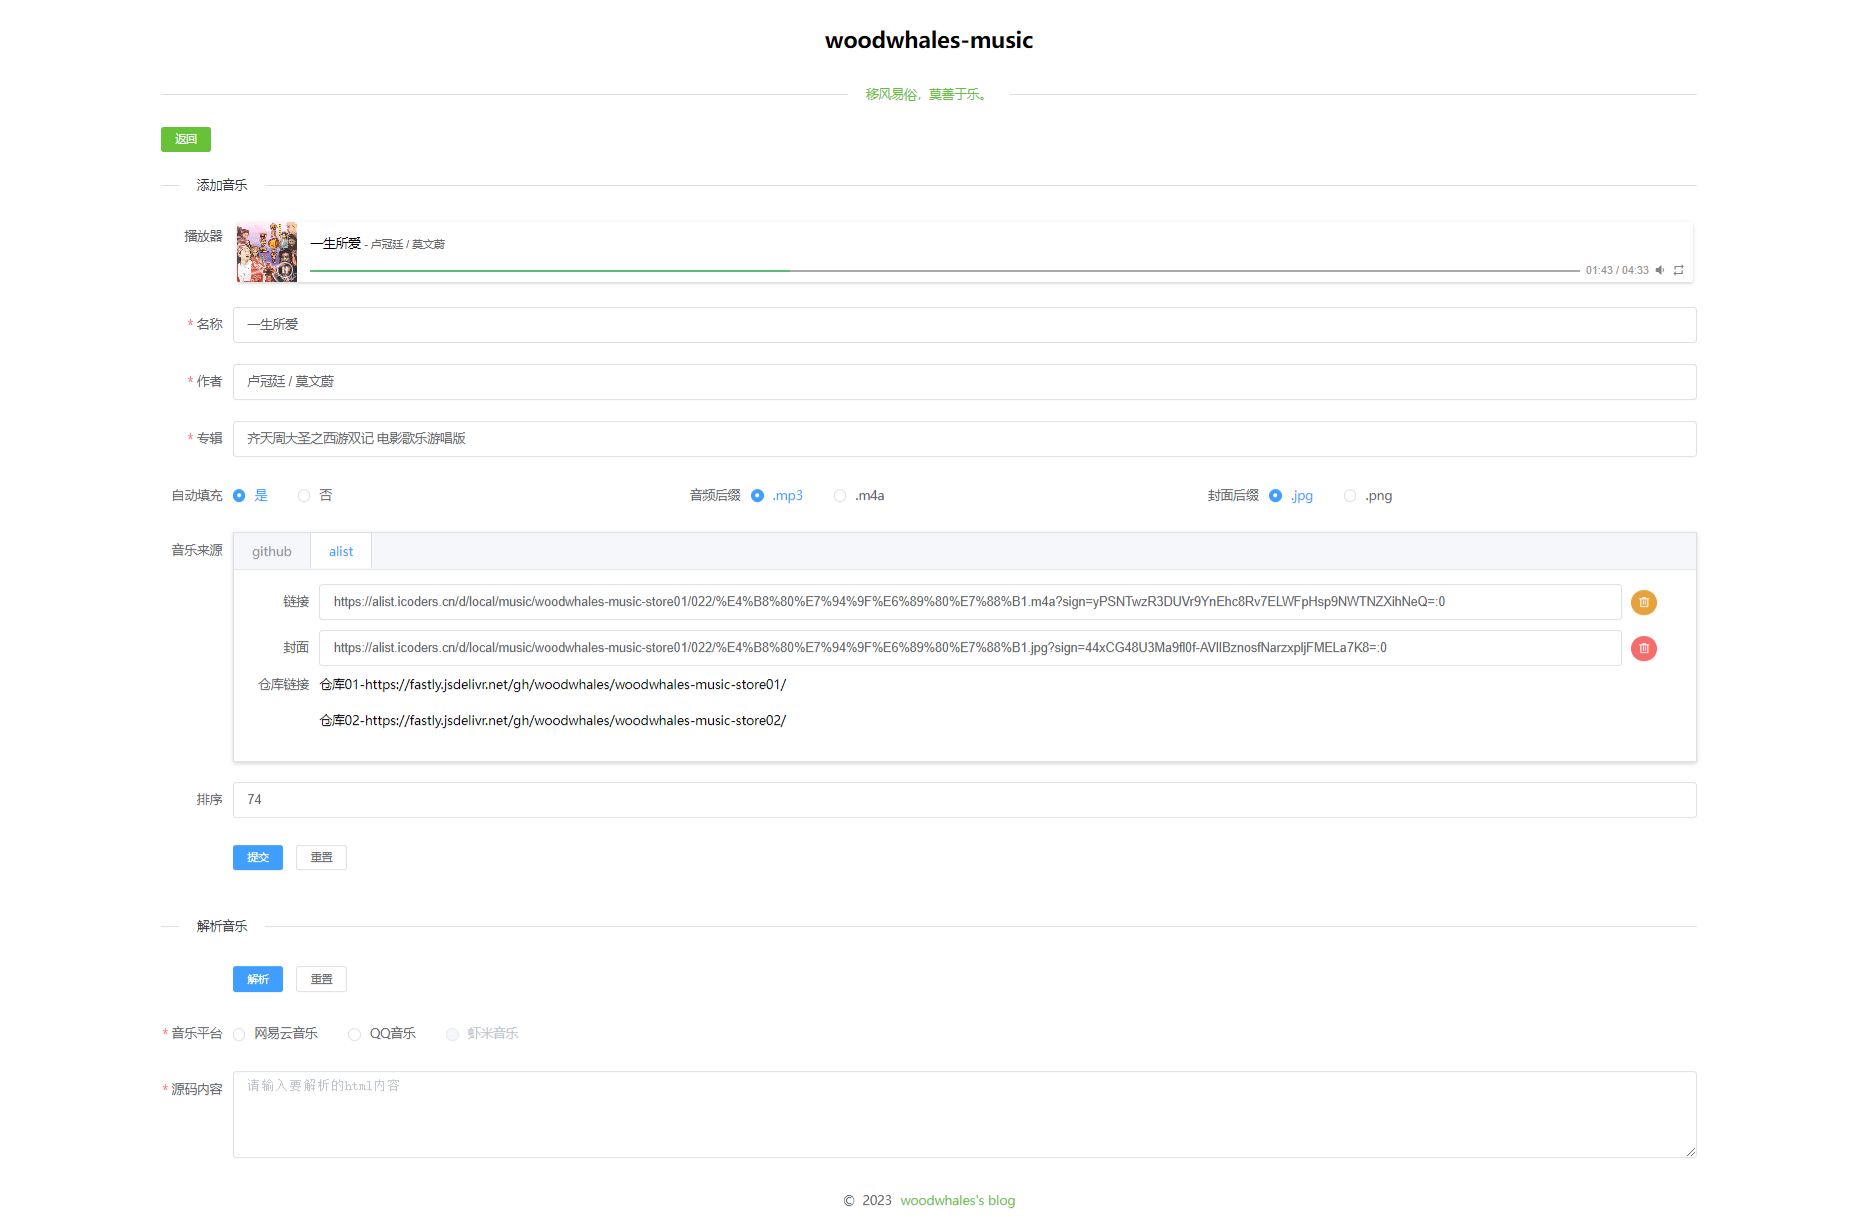
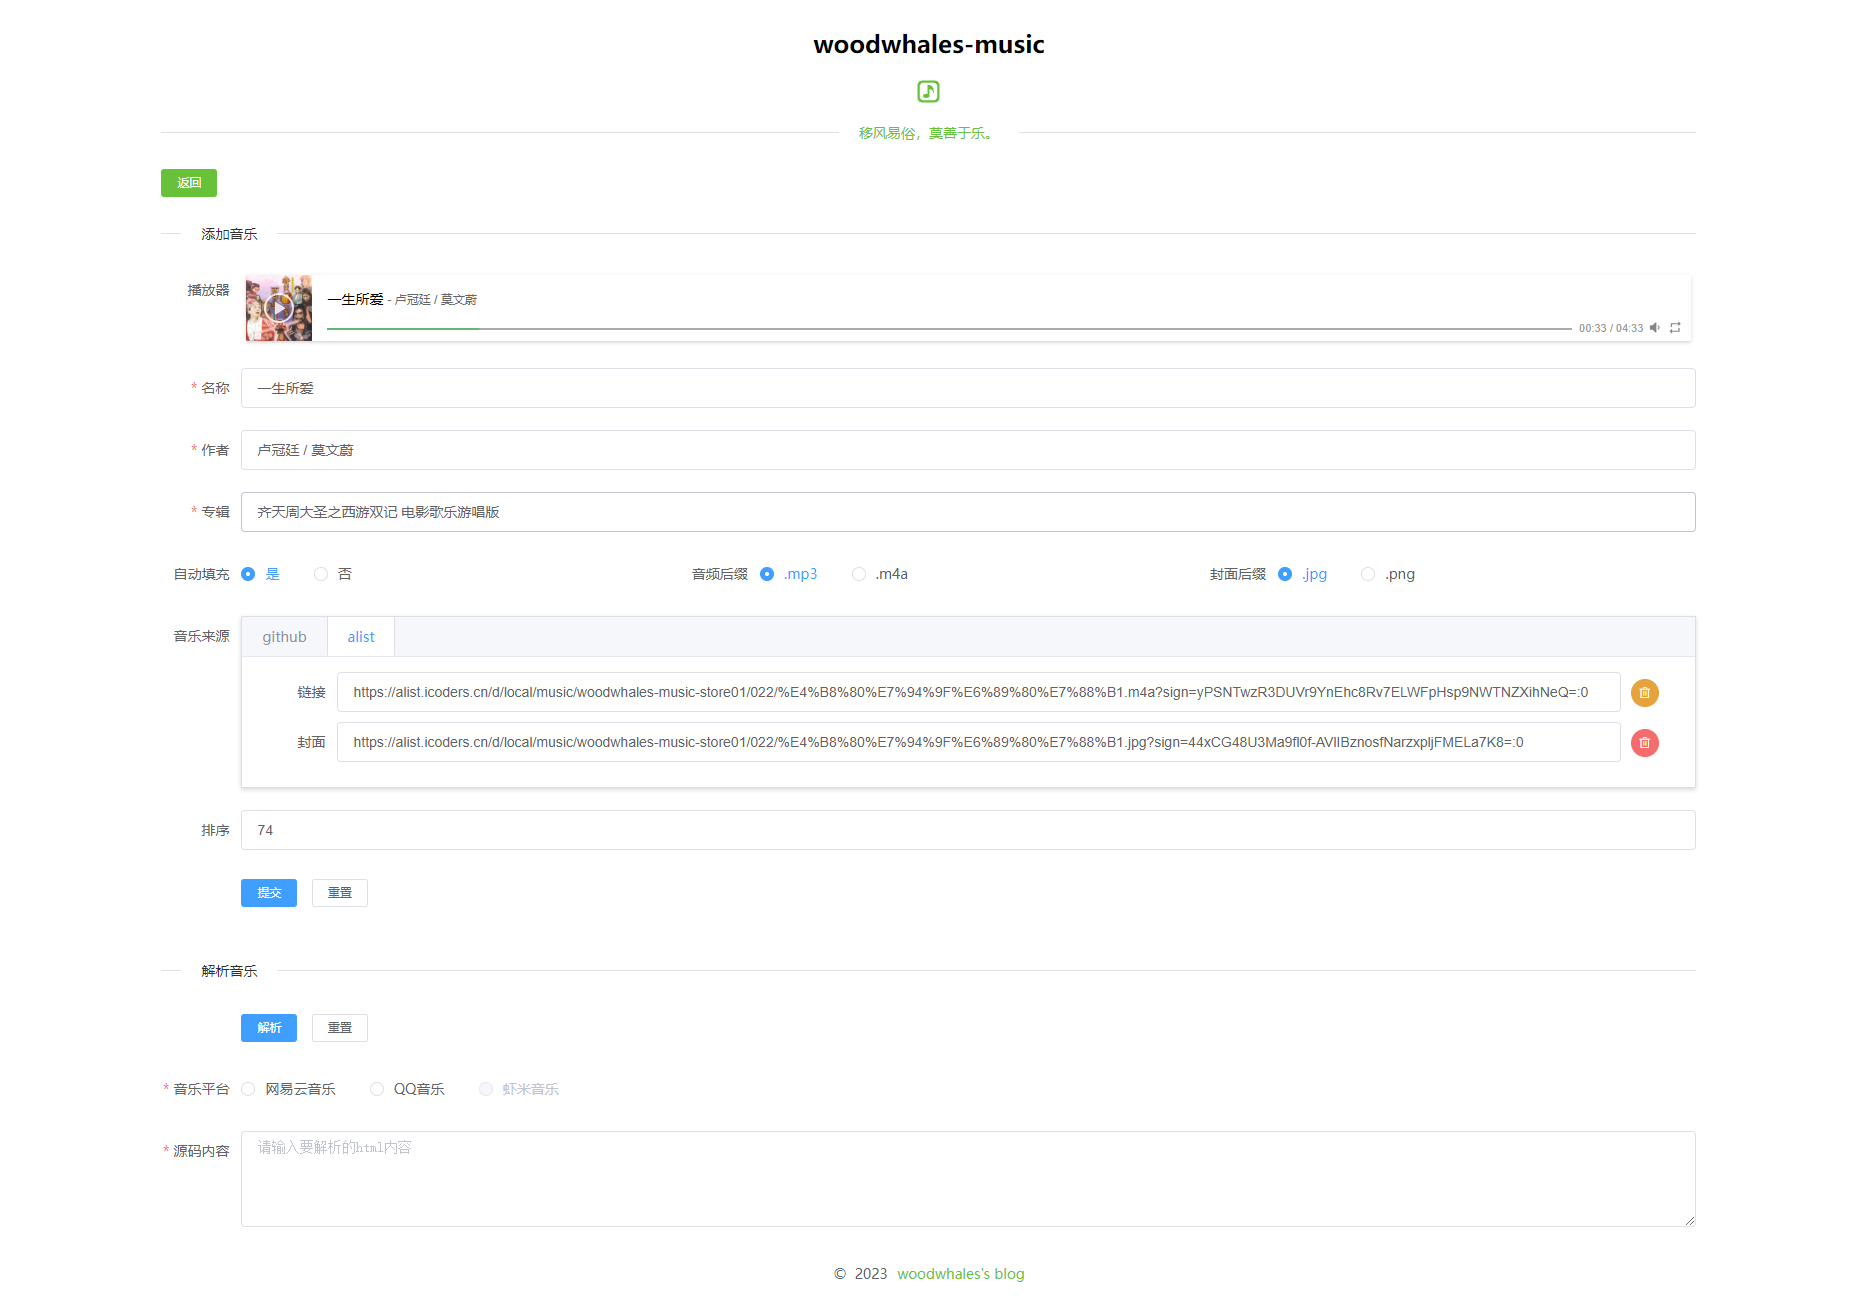
update readme and update version to 3.6.2

diff --git a/src/main/resources/templates/admin2/index.html b/src/main/resources/templates/admin2/index.html
@@ -17,15 +17,7 @@
         <el-row>
             <el-col :span="2">&nbsp;</el-col>
             <el-col :span="20">
-                <el-row style="text-align: center;">
-                    <h2>woodwhales-music</h2>
-                    <el-link :underline="false" th:href="${musicSite}" target="_blank">
-                        <svg t="1702282985669" class="icon" viewBox="0 0 1024 1024" version="1.1" xmlns="http://www.w3.org/2000/svg" p-id="1101" width="25" height="25"><path d="M690.70866 333.35325c49.640584 82.136695 44.667316 268.000823 44.667316 268.000823S709.115891 421.37805 556.620755 422.642856l0 312.62209-18.49319 0c-23.294542 26.608008-65.953108 44.667316-115.417683 44.667316-73.979922 0-134.086881-39.957037-134.086881-89.289606 0-49.378617 60.106959-89.289606 134.086881-89.289606 15.70161 0 30.621415 2.136663 44.665269 5.496178L467.375152 243.934708l89.245603 0C556.620755 243.934708 653.107273 271.107581 690.70866 333.35325zM958.70846 243.934708l0 535.9996c0 98.711186-80.000032 178.709171-178.711218 178.709171L243.998665 958.64348c-98.623181 0-178.709171-79.997985-178.709171-178.709171L65.289494 243.934708c0-98.625228 80.08599-178.579211 178.709171-178.579211l535.998577 0C878.708428 65.355497 958.70846 145.30948 958.70846 243.934708zM869.374852 288.687982c0-74.067926-60.021002-134.042879-133.998877-134.042879L288.623002 154.645103c-73.979922 0-133.912919 59.974953-133.912919 134.042879l0 446.577988c0 74.023924 59.932997 134.086881 133.912919 134.086881l446.752973 0c73.977875 0 133.998877-60.062957 133.998877-134.086881L869.374852 288.687982z" p-id="1102" fill="#67C23A"></path></svg>
-                    </el-link>
-                </el-row>
-                <el-row style="text-align: center; margin-bottom: 12px;">
-                    <el-divider content-position="center"><span style="color: #67C23A;">移风易俗，莫善于乐。</span></el-divider>
-                </el-row>
+                <div th:replace="~{admin2/header::header}"></div>
                 <el-row>
                     <el-row :gutter="20">
                         <el-col :span="20">

diff --git a/src/main/resources/templates/admin2/header.html b/src/main/resources/templates/admin2/header.html
@@ -1,0 +1,22 @@
+<!DOCTYPE html>
+<html xmlns:th="http://www.thymeleaf.org">
+<head>
+    <meta charset="UTF-8">
+    <title>woodwhales-music</title>
+</head>
+<body>
+
+<div th:fragment="header">
+    <el-row style="text-align: center;">
+        <h2>woodwhales-music</h2>
+        <el-link :underline="false" th:href="${musicSite}" target="_blank">
+            <svg t="1702282985669" class="icon" viewBox="0 0 1024 1024" version="1.1" xmlns="http://www.w3.org/2000/svg" p-id="1101" width="25" height="25"><path d="M690.70866 333.35325c49.640584 82.136695 44.667316 268.000823 44.667316 268.000823S709.115891 421.37805 556.620755 422.642856l0 312.62209-18.49319 0c-23.294542 26.608008-65.953108 44.667316-115.417683 44.667316-73.979922 0-134.086881-39.957037-134.086881-89.289606 0-49.378617 60.106959-89.289606 134.086881-89.289606 15.70161 0 30.621415 2.136663 44.665269 5.496178L467.375152 243.934708l89.245603 0C556.620755 243.934708 653.107273 271.107581 690.70866 333.35325zM958.70846 243.934708l0 535.9996c0 98.711186-80.000032 178.709171-178.711218 178.709171L243.998665 958.64348c-98.623181 0-178.709171-79.997985-178.709171-178.709171L65.289494 243.934708c0-98.625228 80.08599-178.579211 178.709171-178.579211l535.998577 0C878.708428 65.355497 958.70846 145.30948 958.70846 243.934708zM869.374852 288.687982c0-74.067926-60.021002-134.042879-133.998877-134.042879L288.623002 154.645103c-73.979922 0-133.912919 59.974953-133.912919 134.042879l0 446.577988c0 74.023924 59.932997 134.086881 133.912919 134.086881l446.752973 0c73.977875 0 133.998877-60.062957 133.998877-134.086881L869.374852 288.687982z" p-id="1102" fill="#67C23A"></path></svg>
+        </el-link>
+    </el-row>
+    <el-row style="text-align: center; margin-bottom: 12px;">
+        <el-divider content-position="center"><span style="color: #67C23A;">移风易俗，莫善于乐。</span></el-divider>
+    </el-row>
+</div>
+
+</body>
+</html>

diff --git a/src/main/resources/templates/admin2/add.html b/src/main/resources/templates/admin2/add.html
@@ -17,13 +17,7 @@
     <el-row>
         <el-col :span="2">&nbsp;</el-col>
         <el-col :span="20">
-            <el-row style="text-align: center;">
-                <h2>woodwhales-music</h2>
-            </el-row>
-            <el-row style="text-align: center; margin-bottom: 12px;">
-                <el-divider content-position="center"><span style="color: #67C23A;">移风易俗，莫善于乐。</span></el-divider>
-            </el-row>
-
+            <div th:replace="~{admin2/header::header}"></div>
             <el-row style="margin-bottom: 12px;">
                 <el-button type="success" size="mini" @click="onBackHome">返回</el-button>
             </el-row>
@@ -92,10 +86,6 @@
                                     <el-col :span="23">
                                         <el-form-item label="封面">
                                             <el-input v-model.trim="link.linkMap.COVER_LINK" @change="changeAudioUrlEvent" @blur="changeAudioUrlEvent"></el-input>
-                                        </el-form-item>
-                                        <el-form-item label="仓库链接">
-                                            <div>仓库01-https://fastly.jsdelivr.net/gh/woodwhales/woodwhales-music-store01/</div>
-                                            <div>仓库02-https://fastly.jsdelivr.net/gh/woodwhales/woodwhales-music-store02/</div>
                                         </el-form-item>
                                     </el-col>
                                     <el-col :span="1">

diff --git a/src/main/resources/templates/admin2/export.html b/src/main/resources/templates/admin2/export.html
@@ -11,13 +11,7 @@
     <el-row>
         <el-col :span="2">&nbsp;</el-col>
         <el-col :span="20">
-            <el-row style="text-align: center;">
-                <h2>woodwhales-music</h2>
-            </el-row>
-            <el-row style="text-align: center; margin-bottom: 12px;">
-                <el-divider content-position="center"><span style="color: #67C23A;">移风易俗，莫善于乐。</span></el-divider>
-            </el-row>
-
+            <div th:replace="~{admin2/header::header}"></div>
             <el-row style="margin-bottom: 12px;">
                 <el-button type="success" size="mini" @click="onBackHome">返回</el-button>
             </el-row>

diff --git a/src/main/java/org/woodwhales/music/controller/admin/AdminViewController.java b/src/main/java/org/woodwhales/music/controller/admin/AdminViewController.java
@@ -39,14 +39,18 @@ public class AdminViewController {
 
     @GetMapping("")
     public String index(Model model) {
-        model.addAttribute("musicSite", appConfig.getMusicSite());
+        this.addMusicSite(model);
         return "redirect:admin/";
     }
 
     @GetMapping({"/"})
     public String home(Model model) {
-        model.addAttribute("musicSite", appConfig.getMusicSite());
+        this.addMusicSite(model);
         return "admin2/index";
+    }
+
+    private void addMusicSite(Model model) {
+        model.addAttribute("musicSite", appConfig.getMusicSite());
     }
 
     @GetMapping({"add"})
@@ -59,6 +63,7 @@ public class AdminViewController {
         if(Objects.nonNull(id)) {
             musicDetailInfo = musicService.getMusicDetailInfoById(id);
         }
+        this.addMusicSite(model);
         model.addAttribute("music", musicDetailInfo);
         return "admin2/add";
     }
@@ -71,11 +76,13 @@ public class AdminViewController {
         model.addAttribute("musicStore", musicStoreService.getMusicStore());
         List<MusicPlatformTypeEnum> musicPlatformTypes = Arrays.asList(MusicPlatformTypeEnum.values());
         model.addAttribute("musicPlatformTypes", musicPlatformTypes);
+        this.addMusicSite(model);
         return "add";
     }
 
     @GetMapping({"export"})
     public String export(Model model) {
+        this.addMusicSite(model);
         return "admin2/export";
     }
 

diff --git a/README.md b/README.md
@@ -82,6 +82,11 @@ mvn clean install -Pdev
 
 ## 2. 功能说明
 
+### 3.6.2
+
+- 重构后台页面头
+- 后台页面头增加跳转前台页面链接
+
 ### 3.6.1
 
 - 后台音乐列表支持可排序列：排序、创建时间、更新时间
